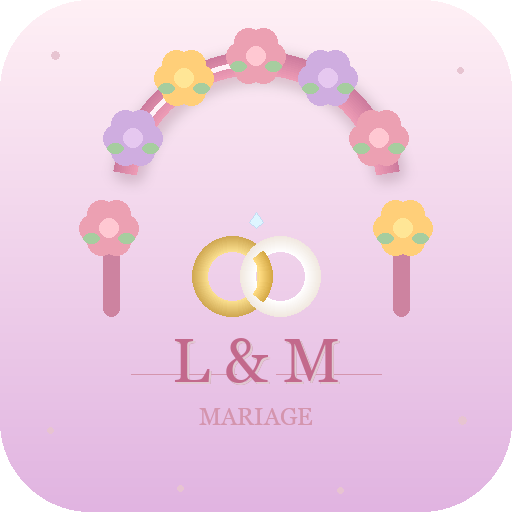
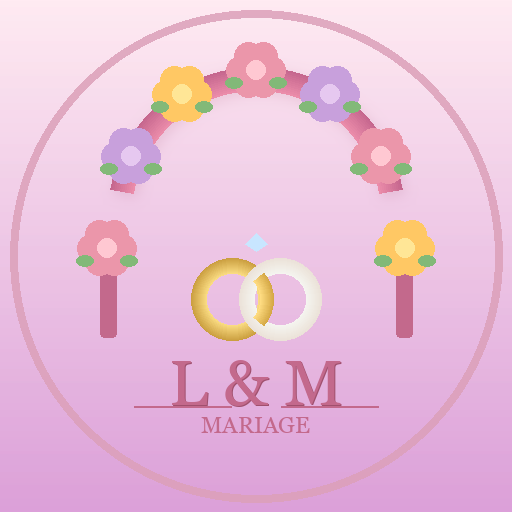
Icônes RGB sans transparence + manifest v7

diff --git a/sw.js b/sw.js
@@ -1,4 +1,4 @@
-const CACHE = 'mariage-v6';
+const CACHE = 'mariage-v7';
 const FILES = ['/index.html', '/manifest.json', '/icon-512.png', '/icon-192.png'];
 
 self.addEventListener('install', e => {